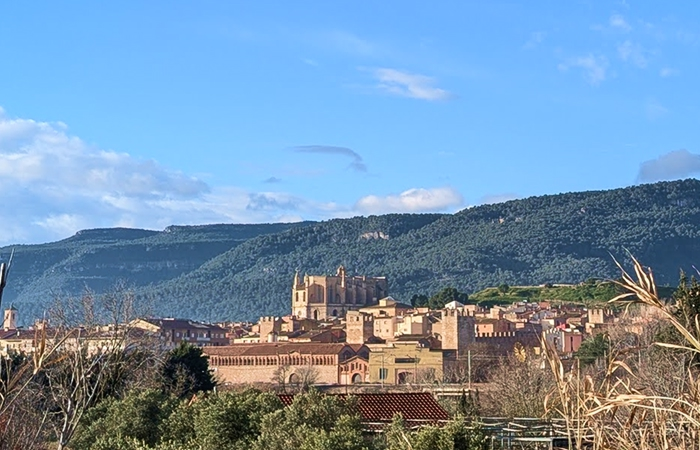
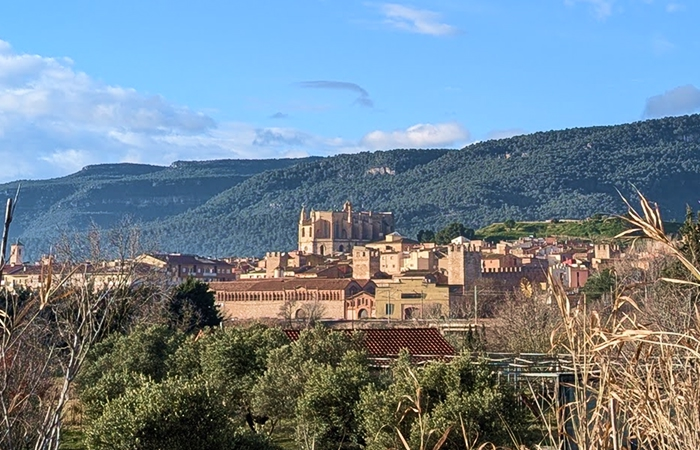
color palette update and improved destinations with travel tip accordion (extended table overview)

diff --git a/src/components/content/TableOverview.tsx b/src/components/content/TableOverview.tsx
@@ -1,5 +1,6 @@
-import { PawPrint } from 'lucide-react';
+import { PawPrint, ChevronDown, Route } from 'lucide-react';
 import { useTranslation } from 'react-i18next';
+import { useState } from 'react';
 
 export interface TableColumn {
   key: string;
@@ -18,6 +19,39 @@ interface Props {
   data: TableRow[];
 }
 
+// 1. NEU: Eine eigene, butterweich animierte Accordion-Komponente
+const MobileAccordion = ({ label, content }: { label: string; content: React.ReactNode }) => {
+  const [isOpen, setIsOpen] = useState(false);
+
+  return (
+    <div className="md:hidden border border-primary/60 bg-white/60 rounded-xl overflow-hidden">
+      <button
+        onClick={() => setIsOpen(!isOpen)}
+        className="w-full flex justify-between items-center p-3 font-semibold text-[13px] text-primary cursor-pointer select-none"
+      >
+        <Route size={16} className="text-primary" />
+        <span className="text-sm text-primary">{label}</span>
+        <ChevronDown 
+          size={16} 
+          className={`transition-transform duration-300 text-primary ${isOpen ? 'rotate-180' : ''}`} 
+        />
+      </button>
+      {/* Der Grid-Trick: Animiert sanft von 0 Höhe auf volle Inhalts-Höhe */}
+      <div
+        className={`grid transition-all duration-300 ease-in-out ${
+          isOpen ? 'grid-rows-[1fr] opacity-100' : 'grid-rows-[0fr] opacity-0'
+        }`}
+      >
+        <div className="overflow-hidden">
+          <div className="p-3 pt-0 text-[14px] leading-relaxed whitespace-pre-wrap">
+            {content}
+          </div>
+        </div>
+      </div>
+    </div>
+  );
+};
+
 export default function TableOverview({ columns, data }: Props) {
   const { t } = useTranslation();
 
@@ -27,12 +61,12 @@ export default function TableOverview({ columns, data }: Props) {
   const restCols = columns.slice(1);
 
   return (
-    <div className="grid grid-cols-1 sm:grid-cols-2 md:grid-cols-3 gap-4 lg:gap-5 mt-2 mb-6">
+    <div className="grid grid-cols-1 sm:grid-cols-2 md:grid-cols-3 gap-4 lg:gap-5 mb-6">
       {data.map(row => (
         <div 
           key={row.id} 
-          id={row.id} // <--- WICHTIG: Setzt die ID für das Inhaltsverzeichnis
-          className={`flex flex-col ${row.highlight ? 'bg-accent/15' : 'bg-accent/5'} rounded-2xl transition-all overflow-hidden relative scroll-mt-24`} // <--- WICHTIG: scroll-mt-24 verhindert Verstecken hinterm Header
+          id={row.id} 
+          className={`flex flex-col ${row.highlight ? 'bg-highlight/30' : 'bg-highlight/15'} rounded-2xl transition-all overflow-hidden relative scroll-mt-24`}
         >
           {row.image && (
             <div className="w-full h-32 sm:h-40 bg-slate-100 overflow-hidden relative">
@@ -46,23 +80,63 @@ export default function TableOverview({ columns, data }: Props) {
             </h3>
 
             {row.highlight && (
-              <div className="inline-flex items-center gap-1.5 bg-white text-primary px-3 py-1.5 rounded-xl text-[13px] font-bold w-fit">
-                <PawPrint size={15} strokeWidth={2.5} className="fill-primary" />
+              <div className=" relative right-1.5 inline-flex items-center gap-1.5 bg-white text-accent px-3 py-1.5 rounded-full text-[13px] font-bold w-fit mb-3">
+                <PawPrint size={15} strokeWidth={2.5} className="fill-accent" />
                 <span className="capitalize">{t('contentPages.tableRecommendation', 'Empfehlung mit Hund')}</span>
               </div>
             )}
 
-            <div className={`flex flex-col gap-3.5 mt-auto ${row.image || row.highlight ? 'pt-3' : ''}`}>
-              {restCols.map(col => (
-                <div key={col.key} className="flex flex-col gap-0.5">
-                  <span className="text-[13px] font-medium text-slate-500 capitalize">
-                    {col.label}
-                  </span>
-                  <span className="text-[14.5px] text-slate-700 leading-snug">
-                    {row[col.key]}
-                  </span>
-                </div>
-              ))}
+            {/* WICHTIG: mt-auto entfernt, damit Text oben anschließt! */}
+            <div className="flex flex-col gap-4">
+              {restCols.map(col => {
+                
+                // 1. BESCHREIBUNG: Ohne das kleine graue Label rendern
+                if (col.key === 'description') {
+                  return (
+                    <div key={col.key} className="flex flex-col">
+                      <span className="text-[14.5px] text-slate-700 leading-relaxed">
+                        {row[col.key]}
+                      </span>
+                    </div>
+                  );
+                }
+
+                // 2. ANREISE-TIPP: Accordion (Mobile) vs. Offen (Desktop)
+                if (col.key === 'travel') {
+                  return (
+                    <div key={col.key} className="mt-1">
+                      
+                      {/* Ansicht Mobile: Accordion */}
+                      {/* 2. NEU: Einbindung unserer weichen MobileAccordion Komponente */}
+                      <MobileAccordion label={col.label} content={row[col.key]} />
+                      
+                      {/* Ansicht Desktop: Immer offen */}
+                      <div className="hidden md:flex gap-2 items-center mb-4">
+                        <Route size={16} className="text-primary" />
+                        <span className="text-sm font-bold text-primary">{col.label}</span>
+                      </div>
+                      <div className="hidden md:block">
+                         <div className="text-[14.5px] text-slate-700 leading-relaxed whitespace-pre-wrap">
+                            {row[col.key]}
+                         </div>
+                      </div>
+
+                    </div>
+                  );
+                }
+
+                // Fallback für alle anderen Spalten
+                return (
+                  <div key={col.key} className="flex flex-col gap-0.5 mt-2">
+                    <span className="text-[13px] font-medium text-slate-500 capitalize">
+                      {col.label}
+                    </span>
+                    <span className="text-[14.5px] text-slate-700 leading-snug whitespace-pre-wrap">
+                      {row[col.key]}
+                    </span>
+                  </div>
+                );
+              })}
             </div>
           </div>
         </div>

diff --git a/src/lib/i18n.ts b/src/lib/i18n.ts
@@ -271,16 +271,16 @@ const deTranslations = {
         travel: "Anreise-Tipp"
       },
       cards: [
-        { destination: "🇮🇹 Südtirol", highlight: true, description: "Perfekte Mischung aus Bergen, Wein und charmanten Dörfern. Endlose Wanderoptionen für dich und deinen Hund, z.B. am Kalterer See, Meran & Rosengarten.", travel: "Bequem mit dem EuroCity (EC) via München und Innsbruck direkt nach Bozen.", imageId: "suedtirol" },
-        { destination: "🇪🇸 Montblanc (Katalonien)", highlight: true, description: "Wunderschöne Berge, alte Weinberge und sehr entspannte Ausflugsziele für Hunde abseits des Trubels.", travel: "TGV Frankfurt ➔ Aix-en-Provence (6h), umsteigen nach Barcelona (4h), dann Regionalzug nach Montblanc (2h).", imageId: "montblanc" },
-        { destination: "🇫🇷 Avignon (Provence)", description: "Süße Stadt direkt am Fluss mit Zugang zu kleinen grünen Oasen für den Hund und toller südfranzösischer Küche.", travel: "Mit dem TGV direkt ab Frankfurt in entspannten 6 Stunden erreichbar.", imageId: "avignon" },
-        { destination: "🇵🇱 Wrocław & Krakow", description: "Weltoffene Städte voller Geschichte, Kultur und Altstadt-Charme. Entlang der Flüsse gibt es sehr viel Platz für Spaziergänge.", travel: "Sehr gut und direkt erreichbar mit dem EuroCity (EC) ab Berlin oder Leipzig." },
-        { destination: "🇩🇪 Thüringer Wald", highlight: true, description: "Historische Altstädte (z.B. Erfurt & Weimar) und geniale Ausflugsziele wie die Wartburg. Der Thüringer Wald bietet unendlich viel Natur zum Wandern.", travel: "Schnell aus ganz Deutschland mit dem ICE angebunden (über den ICE-Knotenpunkt Erfurt)." },
-        { destination: "🇮🇹 Salerno (Amalfiküste)", description: "Bella Italia pur! Ein genialer Ausgangspunkt für die Amalfiküste mit viel Flair und süditalienischem Charme.", travel: "EuroCity (EC) nach Mailand (ab Frankfurt/Basel), dann mit dem Hochgeschwindigkeitszug Frecciarossa nach Salerno (4h). Alternativ mit dem Nachtzug." },
-        { destination: "🇵🇱 Zielona Góra (Grünberg)", description: "Süße, ruhige Altstadt. Perfekt für einen Wochenend- oder Tagesausflug. Leckeres Essen gibt es in den lokalen Brauereien.", travel: "In nur 2 Stunden extrem schnell erreichbar mit dem EuroCity (EC) direkt ab Berlin." },
-        { destination: "🇮🇹 Sapri (Cilento)", highlight: true, description: "Ein süßes kleines Städtchen im Cilento. Hier kann man am ruhigen Strand ungestört mit Hund und Gelato spazieren gehen.", travel: "EuroCity (EC) nach Mailand (ab Frankfurt/Basel), dann bequem über Nacht mit dem Nachtzug (ICN) im Privatabteil nach Sapri." },
-        { destination: "🇦🇹 Wien", description: "Sehr grüne Stadt! Zwar herrscht teils Leinen-/Maulkorbpflicht, aber die riesige Donauinsel bietet unendlich Platz zum Toben.", travel: "Direkte Verbindungen mit Railjet (RJ), ICE oder der privaten Westbahn aus vielen deutschen Städten." },
-        { destination: "🇫🇷 Marseille", description: "Nur für die Harten: Wenig Grün in der Stadt, aber wer damit klarkommt, erlebt eine aufgeweckte, kreative Metropole direkt am Mittelmeer.", travel: "Tolle Anbindung: Mit dem TGV direkt ab Frankfurt in 7 Stunden ohne Umstieg ans Meer." },
+        { destination: "🇮🇹 Südtirol", highlight: true, description: "Perfekte Mischung aus Bergen, Wein und charmanten Dörfern. Endlose Wanderoptionen für dich und deinen Hund, z.B. am Kalterer See, Meran & Rosengarten.", travel: "- Start: z.B. München 🚄 EC direkt nach Bozen (4 Stunden)\n- 💺 Tolle, entspannte Fahrt durch die Alpen\n- 🚌 Weiter per Bus oder Regio nach Meran/Kalterer See", imageId: "suedtirol" },
+        { destination: "🇪🇸 Montblanc (Katalonien)", highlight: true, description: "Wunderschöne Berge, alte Weinberge und sehr entspannte Ausflugsziele für Hunde abseits des Trubels.", travel: "- Start: Frankfurt (Main) 🚄 TGV nach Aix-en-Provence (6 Stunden)\n- 🥐 1 Tag Aix erkunden, dann mit dem TGV nach Barcelona (4 Stunden)\n- 🚂 Per Regionalzug nach Montblanc (2 Stunden).", imageId: "montblanc" },
+        { destination: "🇫🇷 Avignon (Provence)", description: "Süße Stadt direkt am Fluss mit Zugang zu kleinen grünen Oasen für den Hund und toller südfranzösischer Küche.", travel: "- Start: Frankfurt (Main) 🚄 Direkter TGV nach Avignon\n- ⏱️ Nur knapp 6 Stunden Fahrtzeit\n- 🥖 Perfekt für einen Zwischenstopp oder als Hauptziel", imageId: "avignon" },
+        { destination: "🇵🇱 Wrocław & Krakow", description: "Weltoffene Städte voller Geschichte, Kultur und Altstadt-Charme. Entlang der Flüsse gibt es sehr viel Platz für Spaziergänge.", travel: "- Start: Berlin oder Leipzig 🚄 EuroCity (EC)\n- ⏱️ Berlin - Breslau in ca. 4h, Krakau in 7h\n- 🥨 Entspannte Fahrt mit Bordbistro" },
+        { destination: "🇩🇪 Thüringer Wald", highlight: true, description: "Historische Altstädte (z.B. Erfurt & Weimar) und geniale Ausflugsziele wie die Wartburg. Der Thüringer Wald bietet unendlich viel Natur zum Wandern.", travel: "- Start: Überall in DE 🚄 ICE zum Knotenpunkt Erfurt\n- ⏱️ Aus München oder Berlin in unter 2h\n- 🌳 Weiter mit dem Regio direkt in den Wald" },
+        { destination: "🇮🇹 Salerno (Amalfiküste)", description: "Bella Italia pur! Ein genialer Ausgangspunkt für die Amalfiküste mit viel Flair und süditalienischem Charme.", travel: "- Start: Frankfurt/Basel 🚄 EuroCity nach Mailand\n- 🚄 Umstieg in den schnellen Frecciarossa nach Salerno (4h)\n- 🌙 Alternativ: Bequem im Nachtzug über Nacht!" },
+        { destination: "🇵🇱 Zielona Góra (Grünberg)", description: "Süße, ruhige Altstadt. Perfekt für einen Wochenend- oder Tagesausflug. Leckeres Essen gibt es in den lokalen Brauereien.", travel: "- Start: Berlin 🚄 EuroCity (EC) Richtung Polen\n- ⏱️ Extrem schnelle Anreise (nur ca. 2 Stunden)\n- 🍻 Perfekt für einen stressfreien Kurztrip" },
+        { destination: "🇮🇹 Sapri (Cilento)", highlight: true, description: "Ein süßes kleines Städtchen im Cilento. Hier kann man am ruhigen Strand ungestört mit Hund und Gelato spazieren gehen.", travel: "- Start: Frankfurt/Basel 🚄 EuroCity nach Mailand\n- 🌙 Weiter mit dem Nachtzug (ICN) im Privatabteil bis nach Sapri\n- 🌊 Morgens direkt am Meer aufwachen!" },
+        { destination: "🇦🇹 Wien", description: "Sehr grüne Stadt! Zwar herrscht teils Leinen-/Maulkorbpflicht, aber die riesige Donauinsel bietet unendlich Platz zum Toben.", travel: "- Start: Süddeutschland 🚄 Railjet (RJ) oder Westbahn\n- Start: Mitteldeutschland 🚄 ICE direkt nach Wien\n- ☕ Sehr viele, bequeme Direktverbindungen" },
+        { destination: "🇫🇷 Marseille", description: "Nur für die Harten: Wenig Grün in der Stadt, aber wer damit klarkommt, erlebt eine aufgeweckte, kreative Metropole direkt am Mittelmeer.", travel: "- Start: Frankfurt (Main) 🚄 TGV direkt ans Mittelmeer\n- ⏱️ In knapp 7 Stunden ohne Umstieg an die Küste\n- 🌊 Perfekte, schnelle Verbindung in den Süden" },
       ],
       mapTitle: "Unsere Reisekarte",
       mapDesc: "Hier auf der Viaduct-Karte seht ihr, wo Aslan und ich schon überall unterwegs waren. Schreibt mir gerne, wenn ihr Fragen zu bestimmten Routen habt – ich teile meine Erfahrungen jederzeit sehr gerne!",
@@ -559,16 +559,16 @@ const enTranslations = {
         travel: "Travel Tip"
       },
       cards: [
-        { destination: "🇮🇹 South Tyrol", highlight: true, description: "A perfect mix of mountains, wine, and charming villages. Endless hiking options for you and your dog, e.g. at Lake Kaltern, Meran & Rosengarten.", travel: "Comfortably reached via EuroCity (EC) through Munich and Innsbruck directly to Bolzano.", imageId: "suedtirol" },
-        { destination: "🇪🇸 Montblanc (Catalonia)", description: "Beautiful mountains, old vineyards, and very relaxed excursion spots for dogs away from the hustle and bustle.", travel: "TGV Frankfurt ➔ Aix-en-Provence (6h), change to Barcelona (4h), then regional train to Montblanc (2h).", imageId: "avignon" },
-        { destination: "🇫🇷 Avignon (Provence)", description: "A cute town right on the river with access to small green oases for your dog and great southern French cuisine.", travel: "Easily accessible with a direct TGV from Frankfurt in just under 6 hours.", imageId: "avignon" },
-        { destination: "🇵🇱 Wrocław & Krakow", description: "Cosmopolitan cities full of history, culture, and old-town charm. Lots of space for walks along the rivers.", travel: "Very accessible via direct EuroCity (EC) trains from Berlin or Leipzig." },
-        { destination: "🇩🇪 Thuringia Forest", description: "Historic old towns  (e.g. Erfurt & Weimar) and brilliant sights like the Wartburg. The Thuringian Forest offers endless nature for hiking.", travel: "Fast connections from all over Germany via ICE (through the ICE hub Erfurt)." },
-        { destination: "🇮🇹 Salerno (Amalfi Coast)", description: "Pure Bella Italia! An excellent starting point for the Amalfi Coast with lots of flair and southern Italian charm.", travel: "EuroCity (EC) to Milan (from Frankfurt/Basel), then High-Speed Frecciarossa to Salerno (4h). Alternatively by night train." },
-        { destination: "🇵🇱 Zielona Góra", description: "A cute, quiet old town. Perfect for a weekend or day trip. Enjoy delicious food in the local breweries.", travel: "Extremely fast to reach in just 2 hours via direct EuroCity (EC) from Berlin." },
-        { destination: "🇮🇹 Sapri (Cilento)", highlight: true, description: "A cute little town in Cilento. Walk undisturbed along the quiet beach with your dog and some gelato.", travel: "EuroCity (EC) to Milan (from Frankfurt/Basel), then comfortably overnight in a private cabin on the night train (ICN) to Sapri." },
-        { destination: "🇦🇹 Vienna", description: "A very green city! Although leashes/muzzles are sometimes required, the huge Danube Island offers infinite space to run.", travel: "Direct connections via Railjet (RJ), ICE, or the private Westbahn from many German cities." },
-        { destination: "🇫🇷 Marseille", description: "Only for the tough ones: Very little greenery in the city, but if you can handle that, you'll experience a vibrant, creative metropolis by the sea.", travel: "Great connection: Direct TGV from Frankfurt to the Mediterranean in 7 hours with no transfers." },
+        { destination: "🇮🇹 South Tyrol", highlight: true, description: "A perfect mix of mountains, wine, and charming villages. Endless hiking options for you and your dog, e.g. at Lake Kaltern, Meran & Rosengarten.", travel: "- Start: e.g. Munich 🚄 Direct EC to Bolzano (4 hours)\n- 💺 Beautiful, relaxed journey through the Alps\n- 🚌 Continue by bus or local train to Merano/Lake Kaltern", imageId: "suedtirol" },
+        { destination: "🇪🇸 Montblanc (Catalonia)", description: "Beautiful mountains, old vineyards, and very relaxed excursion spots for dogs away from the hustle and bustle.", travel: "- Start: Frankfurt (Main) 🚄 TGV to Aix-en-Provence (6 hours)\n- 🥐 Explore Aix for 1 day, then TGV to Barcelona (4 hours)\n- 🚂 Continue by regional train to Montblanc (2 hours).", imageId: "montblanc" },
+        { destination: "🇫🇷 Avignon (Provence)", description: "A cute town right on the river with access to small green oases for your dog and great southern French cuisine.", travel: "- Start: Frankfurt (Main) 🚄 Direct TGV to Avignon\n- ⏱️ Just under 6 hours travel time\n- 🥖 Perfect for a stopover or main destination", imageId: "avignon" },
+        { destination: "🇵🇱 Wrocław & Krakow", description: "Cosmopolitan cities full of history, culture, and old-town charm. Lots of space for walks along the rivers.", travel: "- Start: Berlin or Leipzig 🚄 EuroCity (EC)\n- ⏱️ Berlin - Wroclaw in approx. 4h, Krakow in 7h\n- 🥨 Relaxed journey with a dining car" },
+        { destination: "🇩🇪 Thuringia Forest", description: "Historic old towns (e.g. Erfurt & Weimar) and brilliant sights like the Wartburg. The Thuringian Forest offers endless nature for hiking.", travel: "- Start: Anywhere in DE 🚄 ICE to the Erfurt hub\n- ⏱️ From Munich or Berlin in under 2h\n- 🌳 Continue with a regional train straight into the forest" },
+        { destination: "🇮🇹 Salerno (Amalfi Coast)", description: "Pure Bella Italia! An excellent starting point for the Amalfi Coast with lots of flair and southern Italian charm.", travel: "- Start: Frankfurt/Basel 🚄 EuroCity to Milan\n- 🚄 Transfer to the high-speed Frecciarossa to Salerno (4h)\n- 🌙 Alternative: Travel comfortably overnight on a sleeper train!" },
+        { destination: "🇵🇱 Zielona Góra", description: "A cute, quiet old town. Perfect for a weekend or day trip. Enjoy delicious food in the local breweries.", travel: "- Start: Berlin 🚄 EuroCity (EC) towards Poland\n- ⏱️ Extremely fast journey (only about 2 hours)\n- 🍻 Perfect for a stress-free short trip" },
+        { destination: "🇮🇹 Sapri (Cilento)", highlight: true, description: "A cute little town in Cilento. Walk undisturbed along the quiet beach with your dog and some gelato.", travel: "- Start: Frankfurt/Basel 🚄 EuroCity to Milan\n- 🌙 Continue on the night train (ICN) in a private cabin to Sapri\n- 🌊 Wake up right by the sea in the morning!" },
+        { destination: "🇦🇹 Vienna", description: "A very green city! Although leashes/muzzles are sometimes required, the huge Danube Island offers infinite space to run.", travel: "- Start: Southern Germany 🚄 Railjet (RJ) or Westbahn\n- Start: Central Germany 🚄 Direct ICE to Vienna\n- ☕ Many comfortable direct connections available" },
+        { destination: "🇫🇷 Marseille", description: "Only for the tough ones: Very little greenery in the city, but if you can handle that, you'll experience a vibrant, creative metropolis by the sea.", travel: "- Start: Frankfurt (Main) 🚄 Direct TGV to the Mediterranean\n- ⏱️ Reach the coast in just under 7 hours with no transfers\n- 🌊 Perfect, fast connection to the South" },
       ],
       mapTitle: "Our Travel Map",
       mapDesc: "Here on the Viaduct map you can see everywhere Aslan and I have traveled so far. Feel free to message me if you have questions about specific routes – I'm always happy to share my experiences!",

diff --git a/src/components/layout/Footer.tsx b/src/components/layout/Footer.tsx
@@ -43,19 +43,19 @@ export default function Footer({ onShowImprint }: Props) {
 
             {/* Social Icons */}
             <div className="flex items-center gap-3 mt-2">
-              <a href="https://instagram.com/traindoggo" target="_blank" rel="noopener noreferrer" className="flex items-center justify-center w-12 h-12 rounded-xl bg-white/12 hover:bg-white/22 text-white transition-all hover:scale-105 border border-white/15">
+              <a href="https://instagram.com/traindoggo" target="_blank" rel="noopener noreferrer" className="flex items-center justify-center w-12 h-12 rounded-xl bg-white/12 hover:bg-white/22 text-highlight transition-all hover:scale-105 border border-highlight">
                 <Instagram size={22} strokeWidth={2} />
               </a>
-              <a href="https://github.com/kevinklaus/traindoggo" target="_blank" rel="noopener noreferrer" className="flex items-center justify-center w-12 h-12 rounded-xl bg-white/12 hover:bg-white/22 text-white transition-all hover:scale-105 border border-white/15">
+              <a href="https://github.com/kevinklaus/traindoggo" target="_blank" rel="noopener noreferrer" className="flex items-center justify-center w-12 h-12 rounded-xl bg-white/12 hover:bg-white/22 text-highlight transition-all hover:scale-105 border border-highlight">
                 <Github size={22} strokeWidth={2} />
               </a>
-              <a href="https://kevinklaus.github.io" target="_blank" rel="noopener noreferrer" className="flex items-center justify-center w-12 h-12 rounded-xl bg-white/12 hover:bg-white/22 text-white transition-all hover:scale-105 border border-white/15">
+              <a href="https://kevinklaus.github.io" target="_blank" rel="noopener noreferrer" className="flex items-center justify-center w-12 h-12 rounded-xl bg-white/12 hover:bg-white/22 text-highlight transition-all hover:scale-105 border border-highlight">
                 <Globe size={22} strokeWidth={2} />
               </a>
-              {/* <a href="mailto:[email redacted]" className="flex items-center justify-center w-12 h-12 rounded-xl bg-white/12 hover:bg-white/22 text-white transition-all hover:scale-105 border border-white/15">
+              {/* <a href="mailto:[email redacted]" className="flex items-center justify-center w-12 h-12 rounded-xl bg-white/12 hover:bg-white/22 text-highlight transition-all hover:scale-105 border border-highlight">
                 <Mail size={22} strokeWidth={2} />
               </a> */}
-              <a href="https://www.linkedin.com/in/kevinklaus" target="_blank" rel="noopener noreferrer" className="flex items-center justify-center w-12 h-12 rounded-xl bg-white/12 hover:bg-white/22 text-white transition-all hover:scale-105 border border-white/15">
+              <a href="https://www.linkedin.com/in/kevinklaus" target="_blank" rel="noopener noreferrer" className="flex items-center justify-center w-12 h-12 rounded-xl bg-white/12 hover:bg-white/22 text-highlight transition-all hover:scale-105 border border-highlight">
                 <Linkedin size={22} strokeWidth={2} />
               </a>
             </div>

diff --git a/tailwind.config.js b/tailwind.config.js
@@ -4,9 +4,10 @@ export default {
   theme: {
     extend: {
       colors: {
-        primary: '#3b3dff',
+        primary: '#1638C6',
         secondary: '#00017a',
-        accent: '#ff5c0b',
+        accent: '#FF313C',
+        highlight: '#FFB32B',
       },
       fontFamily: {
         heading: ['"Atkinson Hyperlegible Next"', 'sans-serif'],

diff --git a/src/components/content/Destinations.tsx b/src/components/content/Destinations.tsx
@@ -78,7 +78,7 @@ export default function Destinations() {
         </div>
 
         {/* Die dynamischen Destination Cards */}
-        <div className="bg-transparent rounded-3xl pt-2">
+        <div className="bg-white rounded-3xl p-4">
           <TableOverview columns={columns} data={tableData} />
         </div>
 